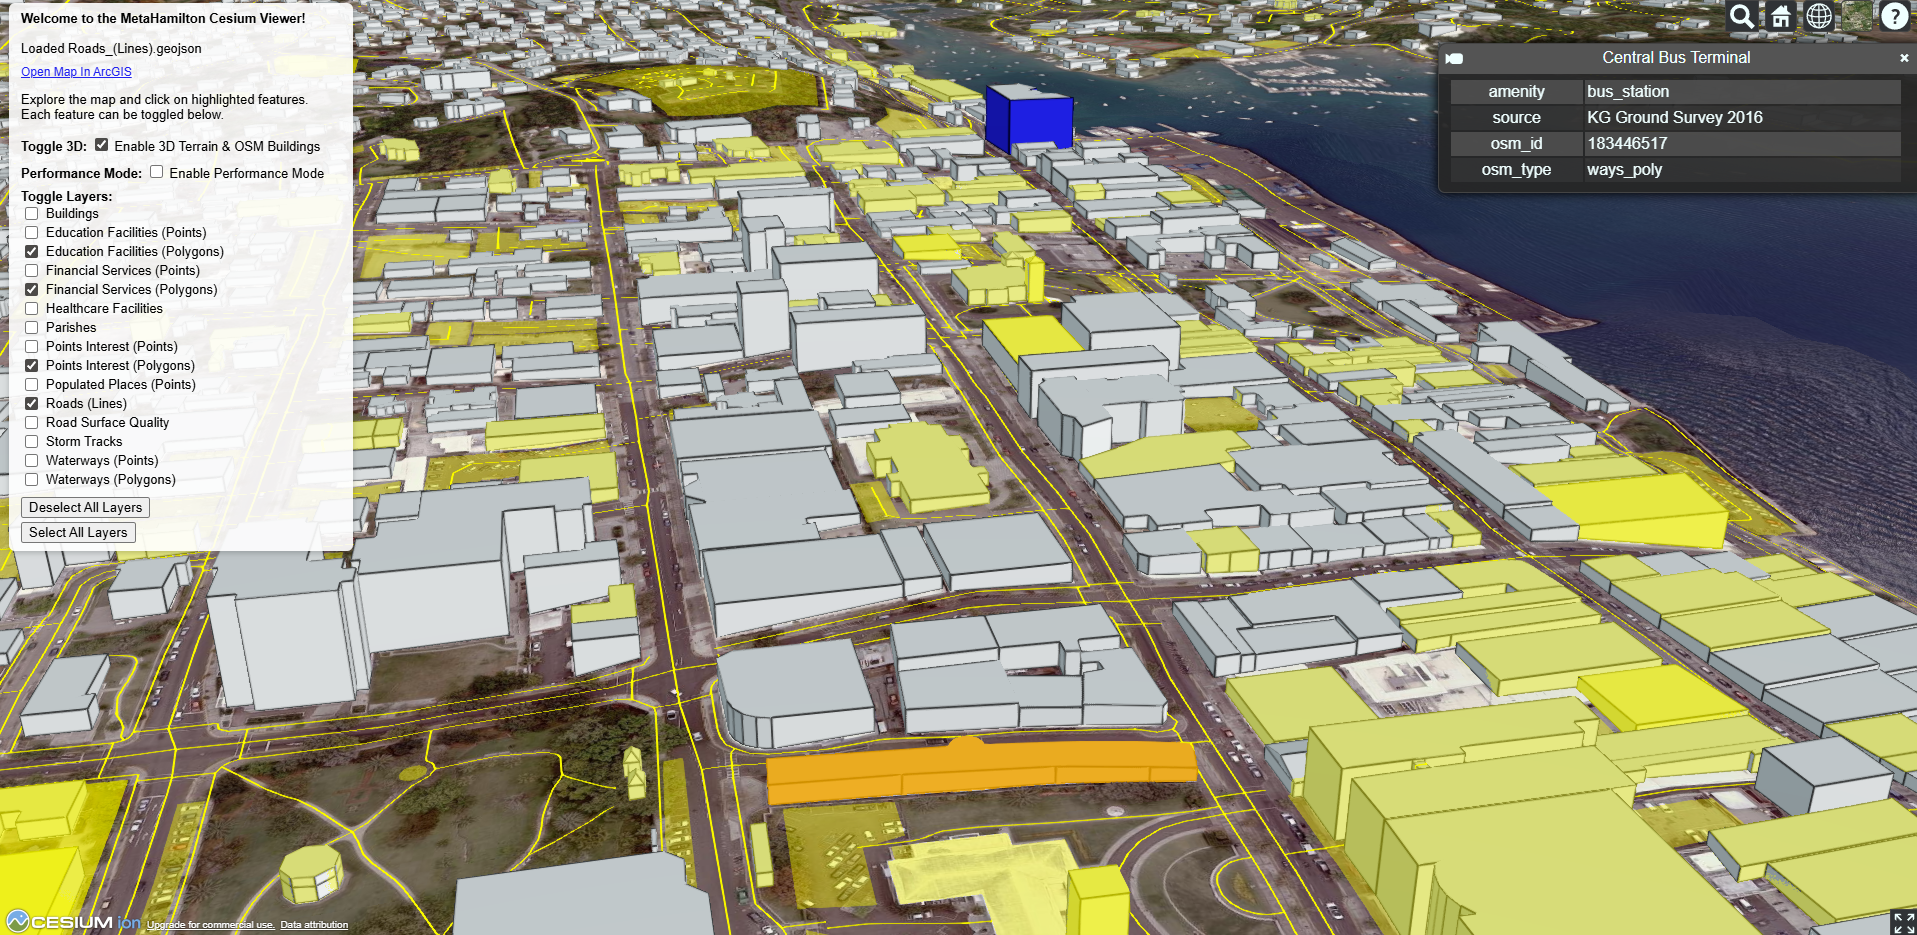
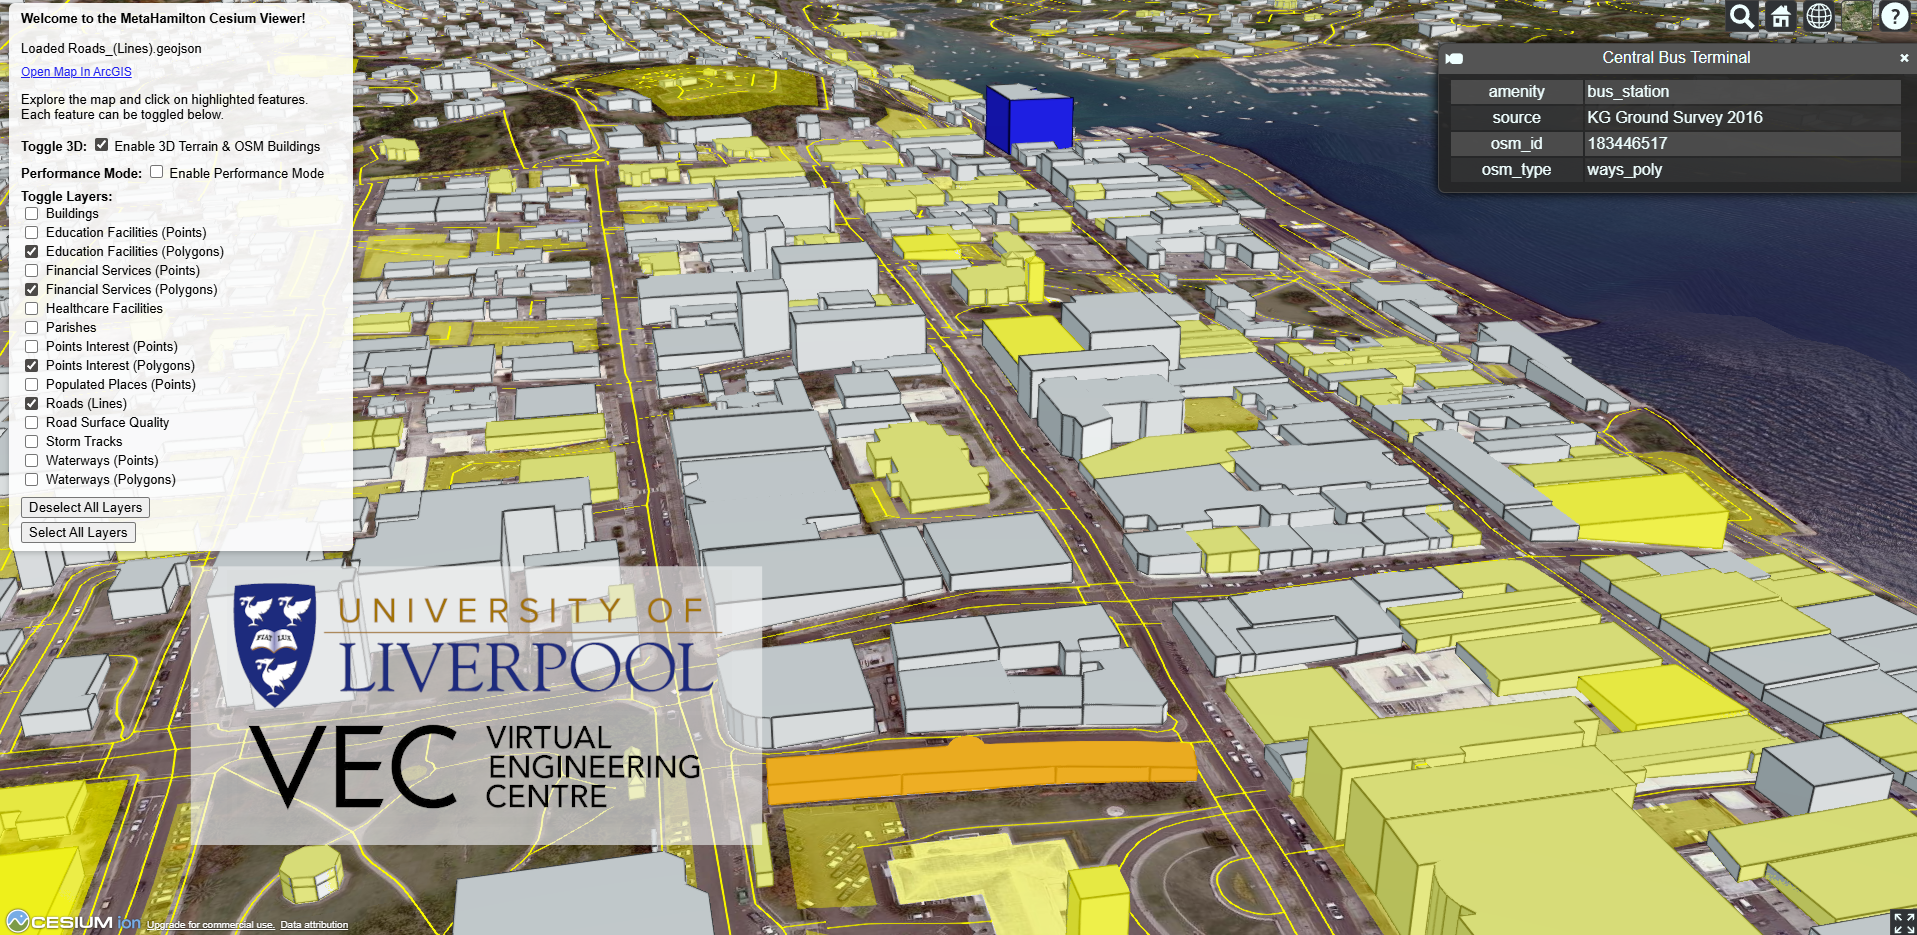
Squashed commit of the following:
commit 84f05a66ee6664c44bef2aff9992afff12270592
Author: Hazinex <harry.ellis3@outlook.com>
Date:   Tue Jan 6 23:30:56 2026 +0000

    Clear contact form on submition.

commit f9eb0e45c698745285b63e453cb692c101acaf61
Author: Hazinex <harry.ellis3@outlook.com>
Date:   Tue Jan 6 23:21:20 2026 +0000

    Revered project order.

commit 0c22283d1f79d609e9ab40fdc22a40b3d9889ac0
Author: Hazinex <harry.ellis3@outlook.com>
Date:   Tue Jan 6 23:15:06 2026 +0000

    Added VEC projects.

Changed region(s): [[0.0923, 0.5893, 0.4001, 0.9305]]

diff --git a/src/lib/projectData.ts b/src/lib/projectData.ts
@@ -172,47 +172,44 @@ export const ProjectsData: ProjectType[] = [
   },
 	{
     id: 8,
+    title: "Finance Website",
+    thumbnailSrc: "/project-images/finance-website/home1.png",
+    thumbnailAlt: "Screenshot of the finance website's homepage.",
+    shortDescription: "Website built with Next.js and Tailwind CSS.",
+    Company: "VEC",
+    gallery: [
+      { src: "/project-images/finance-website/home1.png", alt: "Screenshot of the top part of the website's homepage" },
+      { src: "/project-images/finance-website/home2.png", alt: "Subscription tiers available for the website" },
+      { src: "/project-images/finance-website/dash.png", alt: "Dashboard page of the new site" },
+      { src: "/project-images/finance-website/signup.png", alt: "This project has less than 4 images, this is a filler image" },
+    ],
+    paragraphs: [
+      { number: 1, header: "First Project at VEC", content: "I was thrilled to have landed this job after working for TVS for a year, switching focus from a very corporate job in transport to one with exciting new technologies more aligned with my interests was a welcome change. The Virtual Engineering Centre focusses on using emerging technologies to help small-medium sized enterprises in the UK. My first project while working here was to improve the design of an existing website for one of our clients (Unfortunately, the name cannot be posted here). When I first heard that I will be working on websites during my time here, to be honest, I was sceptical. My only exposure to web development was in my first year of university, which had me using technologies that hadn't been used in industry for years. Needless to say, it was quite frustrating. My only respite was that a friend had mentioned he uses the same tech stack and that I should learn it to because it's quite fun." },
+      { number: 2, header: "Learning Something Completely New & AI Guided Learning", content: "Learning a new programming language is hard in and of itself, learning a completely new field of programming is harder. While I wasn't thrown straight into a new codebase, I was expected to start creating components out the gate with no formal learning time. This trial by fire approach ended up being quite beneficial as oftentimes learning a skill in an isolated environment doesn't reflect what you do in the real world. Something I didn't expect was how useful AI code generation is for learning (That doesn't mean I vibe coded the whole website by the way!). I found AI generated code lets me understand small pieces of a larger code block bit by bit. Comparatively to traditional learning I'd have to write a whole block of code to see any result, by which time I would have no idea what each bit does, just that I had to write it to get it to work." },
+      { number: 3, header: "The Project Itself", content: "While I had not been there from the beginning of the project, this iteration of work for me was focussed on rebuilding the front-end design of a finance website. The company targeted small personal companies, such as local tradesmen, or restaurateurs, to help improve their finances and knowledge around it. For them I had to produce a variety of pages as a part of a small team of 3 people, with me focussing on front-end and them the back-end. This was also a big shift in workflow for me from my previous job. Having people developing alongside me and then having to present that to a client, was daunting but exciting. These were really people's business, so the work I did has an impact, previously unseen in my last role." },
+    ],
+    technologies: ["NextJS", "Tailwind", "Storybook", "Git", "TypeScript"],
+    released: true
+  },
+  {
+    id: 9,
     title: "CesiumJS Bermuda & Liverpool",
     thumbnailSrc: "/project-images/cesiumjs/hamilton.png",
     thumbnailAlt: "A 3D map of Bermuda using CesiumJS.",
     shortDescription: "Interactive 3D map of Bermuda and Liverpool using CesiumJS.",
     Company: "VEC",
     gallery: [
-      { src: "/project-images/cesiumjs/hamilton.png", alt: "A 3D map of Bermuda using CesiumJS" },
-      { src: "/project-images/blanks/no-image-2.png", alt: "This project has less than 4 images, this is a filler image" },
-      { src: "/project-images/blanks/no-image-3.png", alt: "This project has less than 4 images, this is a filler image" },
+      { src: "/project-images/cesiumjs/prom.png", alt: "A 3D map of Bermuda using CesiumJS" },
+      { src: "/project-images/cesiumjs/hamilton.png", alt: "This project has less than 4 images, this is a filler image" },
+      { src: "/project-images/cesiumjs/sheil.png", alt: "This project has less than 4 images, this is a filler image" },
       { src: "/project-images/blanks/no-image-4.png", alt: "This project has less than 4 images, this is a filler image" },
     ],
     paragraphs: [
-      { number: 1, header: "", content: "" },
-      { number: 2, header: "", content: "" },
-      { number: 3, header: "", content: "" },
-      { number: 4, header: "", content: "" },
+      { number: 1, header: "First Bit of Visualisation work", content: "This project involved using CesiumJS to make a 3D explorable representation of Bermuda. While I could've stopped at just adding OSM (OpenStreetMap) Buildings. I thought it worthwhile to add some additional toggleable layers that showed entities like waterways, road conditions, historical storms paths etc. This is still an on-going project, with better ariels scans in the works to increase fidelity." },
+      { number: 2, header: "Adapting Meta Liverpool", content: "The VEC also has an ongoing project called 'Meta Liverpool', a digital twin inside of unreal engine that uses pixel streaming. This can be used for areas such as town planning by looking at traffic simulation or solar panel placement. I decided to make a version of this in CesiumJS that is runnable in a browser, this way it was more distributable to clients. " },
     ],
-    technologies: ["JavaScript", "CesiumJS", "Aerial Scanning"],
-    released: false
-  },
-	{
-    id: 9,
-    title: "MagnifyB Website",
-    thumbnailSrc: "/project-images/magnifyb/home.png",
-    thumbnailAlt: "A screenshot of the MagnifyB website homepage.",
-    shortDescription: "Website built with Next.js and Tailwind CSS.",
-    Company: "VEC",
-    gallery: [
-      { src: "/project-images/magnifyb/home.png", alt: "A screenshot of the MagnifyB website homepage" },
-      { src: "/project-images/magnifyb/signup.png", alt: "signup form for the MagnifyB website" },
-      { src: "/project-images/magnifyb/dashboardTemp.png", alt: "Dashboard page of the new site" },
-      { src: "/project-images/blanks/no-image-4.png", alt: "This project has less than 4 images, this is a filler image" },
-    ],
-    paragraphs: [
-      { number: 1, header: "", content: "" },
-      { number: 2, header: "", content: "" },
-      { number: 3, header: "", content: "" },
-      { number: 4, header: "", content: "" },
-    ],
-    technologies: ["NextJS", "Tailwind", "Git", "TypeScript"],
-    released: false
+    technologies: ["JavaScript", "CesiumJS"],
+    released: true
   },
 	{
     id: 10,
@@ -234,7 +231,7 @@ export const ProjectsData: ProjectType[] = [
       { number: 2, header: "Why I Didn't Have One in the Past", content: "While web development isn't my biggest passion I love learning new technologies. My only prior web development experience prior to working at the VEC was in 2021 at university, we used an ancient version of jQuery to recreate a website to nebulous standards. In contrast, here at the VEC I'm working on real projects and learning something useful. Making this website before I started seemed impossible, but now I know I could make something serviceable for myself, and I've had a great time doing so. " },
       { number: 3, header: "What's Next? (Dev Log)", content: "(03/01/25) As of writing I'm nearing the final commit for a V1.0 version of this website, just a few text edits to go! I made this website within the two-week university closure, so development will slow down as I return to work, but I still have a few plans on my Todo list: Find a way to link and style in the paragraphs | Add series, i.e. game dev series, Robot series etc. | Filter projects by technology used | Add videos to the gallery. Thank you for taking the time to visit my website and read some projects, it means a lot this effort has not gone to waste :)" },
     ],
-    technologies: ["NextJS", "Tailwind", "Git", "TypeScript"],
+    technologies: ["NextJS", "Tailwind", "Storybook", "Git", "TypeScript"],
     released: true
   }
 ]

diff --git a/src/components/contact-form/index.tsx b/src/components/contact-form/index.tsx
@@ -12,12 +12,13 @@ import {
 import { Input } from "@/components/ui/shadcn/input"
 import { Textarea } from "@/components/ui/shadcn/textarea"
 import { Button } from "@/components/ui/button"
-import { useState } from "react"
+import { useRef, useState } from "react"
 
 function ContactForm() {
   const [submitted, setSubmitted] = useState(false)
   const [sending, setSending] = useState(false)
   const [error, setError] = useState(false)
+  const formRef = useRef<HTMLFormElement>(null)
 
   async function handleSubmit(e: React.FormEvent) {
     e.preventDefault()
@@ -34,6 +35,7 @@ function ContactForm() {
         if (!response.ok) {
           throw new Error(`HTTP Error Status: ${response.status}`)
         }
+        formRef.current?.reset()
         return response.json()
       })
     }
@@ -48,7 +50,7 @@ function ContactForm() {
   }
 
   return (
-    <form onSubmit={handleSubmit} className="outline rounded-2xl mt-8 md:m-8 p-4 md:p-8 shadow-2xl bg-muted-foreground/10">
+    <form onSubmit={handleSubmit} ref={formRef} className="outline rounded-2xl mt-8 md:m-8 p-4 md:p-8 shadow-2xl bg-muted-foreground/10">
       <FieldSet>
         <FieldLegend>Contact Form</FieldLegend>
         <FieldDescription>Enter your information and message below</FieldDescription>

diff --git a/src/app/projects/page.tsx b/src/app/projects/page.tsx
@@ -47,7 +47,11 @@ export default function Projects() {
 			<hr className="my-8 mb-16" />
 			<section className="max-w-screen-2xl mx-auto px-6 mb-8">
 				<div className="grid sm:grid-cols-1 md:grid-cols-2 lg:grid-cols-3 gap-8">
-					{ProjectsData.filter(project => project.released).map((project, index) => (
+					{ProjectsData
+          .filter(project => project.released)
+          .slice()
+          .reverse()
+          .map((project, index) => (
 						<ProjectCard
 							key={project.id}
 							title={project.title}
